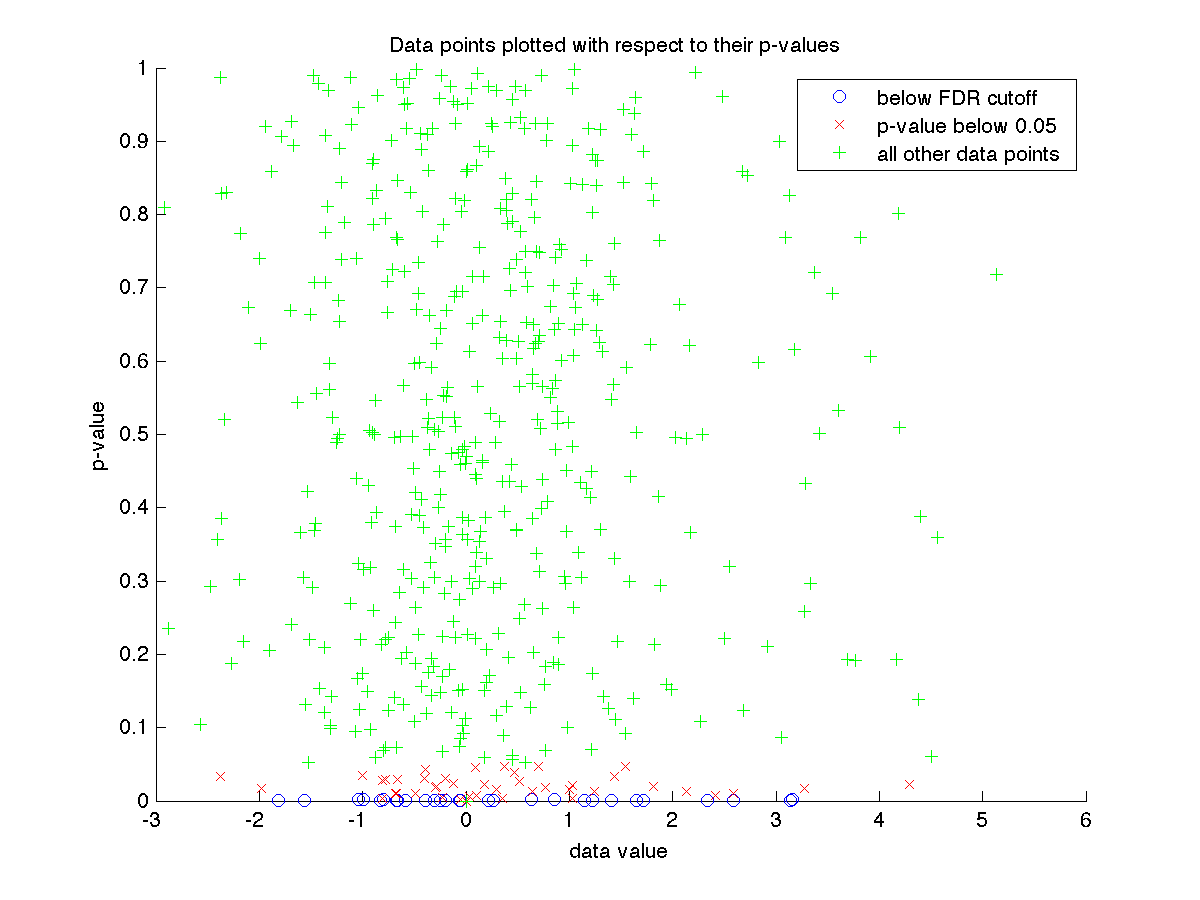
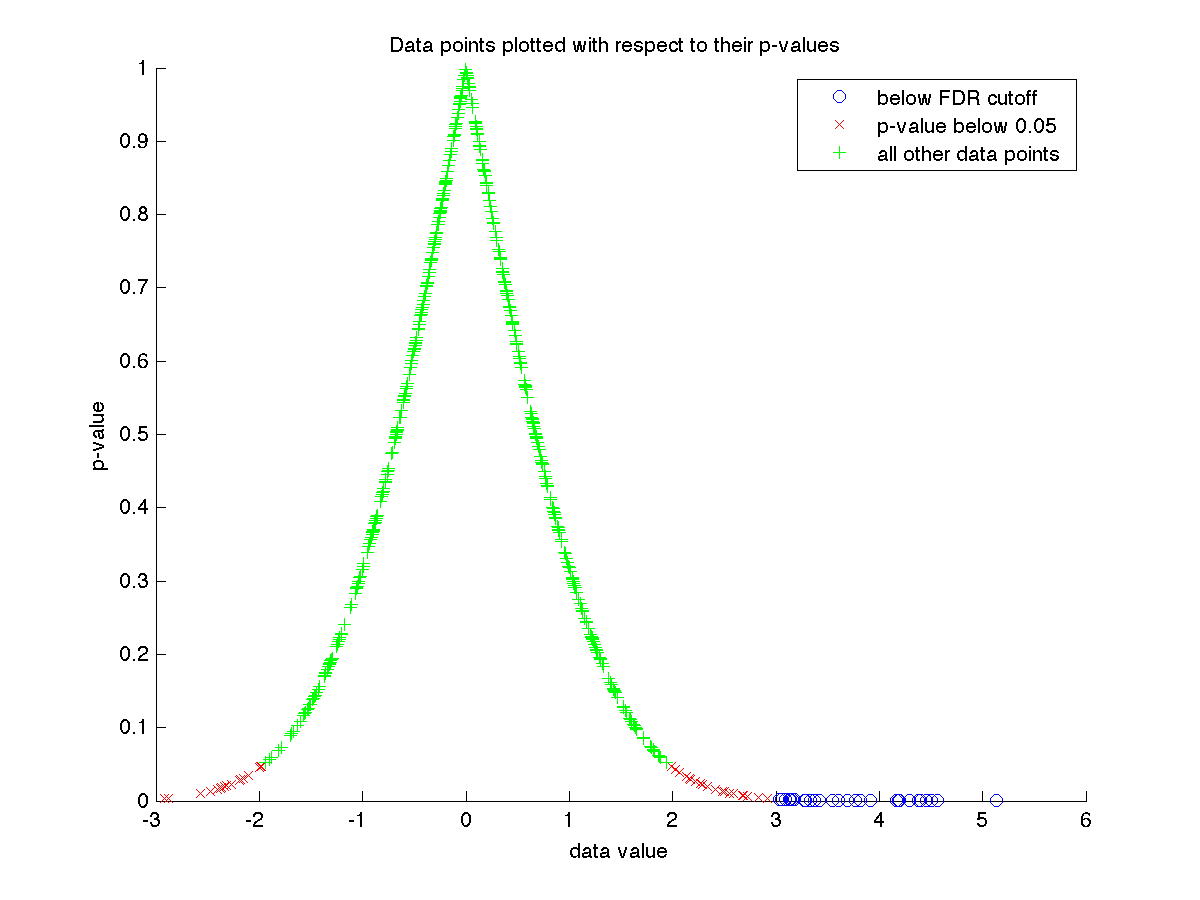
fixed some bugs

diff --git a/assignment8/assignment8.tex b/assignment8/assignment8.tex
@@ -102,19 +102,19 @@ The program then sorts the data values.  Using the standard normal distribution,
 
 Now the program calculates the False Discovery Rate using the Benjamini and Hochberg method, to determine the significance cutoff for p-values that should be used for this data.  We set the FDR value to 0.05 and rank the p-values $p_i$ such that $p_1 < p_2 < ... < p_n$, where n is the number of data points.  Then we find $r$ such that $p_r < \frac{r}{n}*FDR$.  Finally the program determines which data points fall under the FDR cutoff, which data points have a p-value below 0.05.  The cutoff to be used based on this method is a p-value of 0.002449.  There are 29 data points with p-values less than or equal to this cutoff, although it's expected that approximately 5\% of these values are false positives as well.    
 
-Finally, all data points are plotted with respect to their p-values.  Data points that fall under the FDR cutoff are plotted as a blue circle, data points that have a p-value below 0.05 but do not fall under the FDR cutoff are plotted with a red 'x', and all other data points are plotted as a green '+'.  
+Finally, all data points are plotted with respect to their p-values, shown in Figure 4.  Data points that fall under the FDR cutoff are plotted as a blue circle, data points that have a p-value below 0.05 but do not fall under the FDR cutoff are plotted with a red 'x', and all other data points are plotted as a green '+'.  The values that are below the FDR cutoff (blue circle) appear only on the right side of the curve, which makes sense because the histogram in Figure 1 is right-skewed.  These are probably the values from the other normal distribution used in generating the data (i.e. the one that has a different mean and variance from the standard normal distribution).  The points shown with a red 'x' are most likely data generated from the null model.  This shows why all p-values under 0.05 should not be considered significant, because given enough data points, you can get plenty of p-values that fall below 0.05 by chance.  
 
 \begin{figure}[t]
 \centering
    \includegraphics[width=3.5in]{hist.png}
 \caption{Histogram of the given data values distributed over 20 bins}
+
+\includegraphics[width=3.5in]{qq.png}
+\caption{QQ plot of the Data versus a Standard Normal Distribution}
 \end{figure}
 
 \begin{figure}[t]
 \centering
-\includegraphics[width=3.5in]{qq.png}
-\caption{QQ plot of the Data versus a Standard Normal Distribution}
-
    \includegraphics[width=3.5in]{hist-p.png}
 \caption{Histogram of the p-values of the data distributed over 20 bins}
 

diff --git a/assignment8/assignment8.m b/assignment8/assignment8.m
@@ -3,6 +3,7 @@
 % CSCI 6971
 % Assignment 8
 
+clear all
 % read data
 vals = textread('data.txt', '%f');
 
@@ -19,9 +20,6 @@ figure(2)
 qqplot(vals)
 saveas(gcf, 'qq.png')
 
-% sort data for cdf
-val_sort = sort(vals);
-
 % calc p values
 pd = makedist('Normal', 0, 1);
 pvals = 2*cdf(pd, -abs(vals));
@@ -37,7 +35,7 @@ saveas(gcf, 'hist-p.png')
 % calculate False Discovery Rate using Benjamini & Hochberg method
 fdr = 0.05;
 [pvals_sort, sortIndex] = sort(pvals);
-vals_sort2 = val_sort(sortIndex);
+vals_sort = vals(sortIndex);
 for i=1:length(pvals_sort)
     newvals(i,1) = length(pvals_sort)*pvals_sort(i,1)*(1/fdr);
 end
@@ -70,16 +68,22 @@ fprintf('number of p-values less than %f is %d\n', p_cutoff, r);
 
 % plot raw data as points
 % indicate which are below FDR and which have p-value below 0.05
+f_i = 1;
+p_i = 1;
+r_i = 1;
 for i=1:length(pvals_sort)
-   if i < r
-       fdr_cut(i, 1) = vals_sort2(i);
-       fdr_cut(i, 2) = pvals_sort(i);
+   if i <= r
+       fdr_cut(f_i, 1) = vals_sort(i);
+       fdr_cut(f_i, 2) = pvals_sort(i);
+       f_i = f_i + 1;
    elseif pvals_sort(i) < 0.05
-       pval_cut(i,1) = vals_sort2(i);
-       pval_cut(i,2) = pvals_sort(i);
+       pval_cut(p_i,1) = vals_sort(i);
+       pval_cut(p_i,2) = pvals_sort(i);
+       p_i = p_i + 1;
    else
-       rest(i,1) = vals_sort2(i);
-       rest(i,2) = pvals_sort(i);
+       rest(r_i,1) = vals_sort(i);
+       rest(r_i,2) = pvals_sort(i);
+       r_i = r_i + 1;
    end
        
 end
